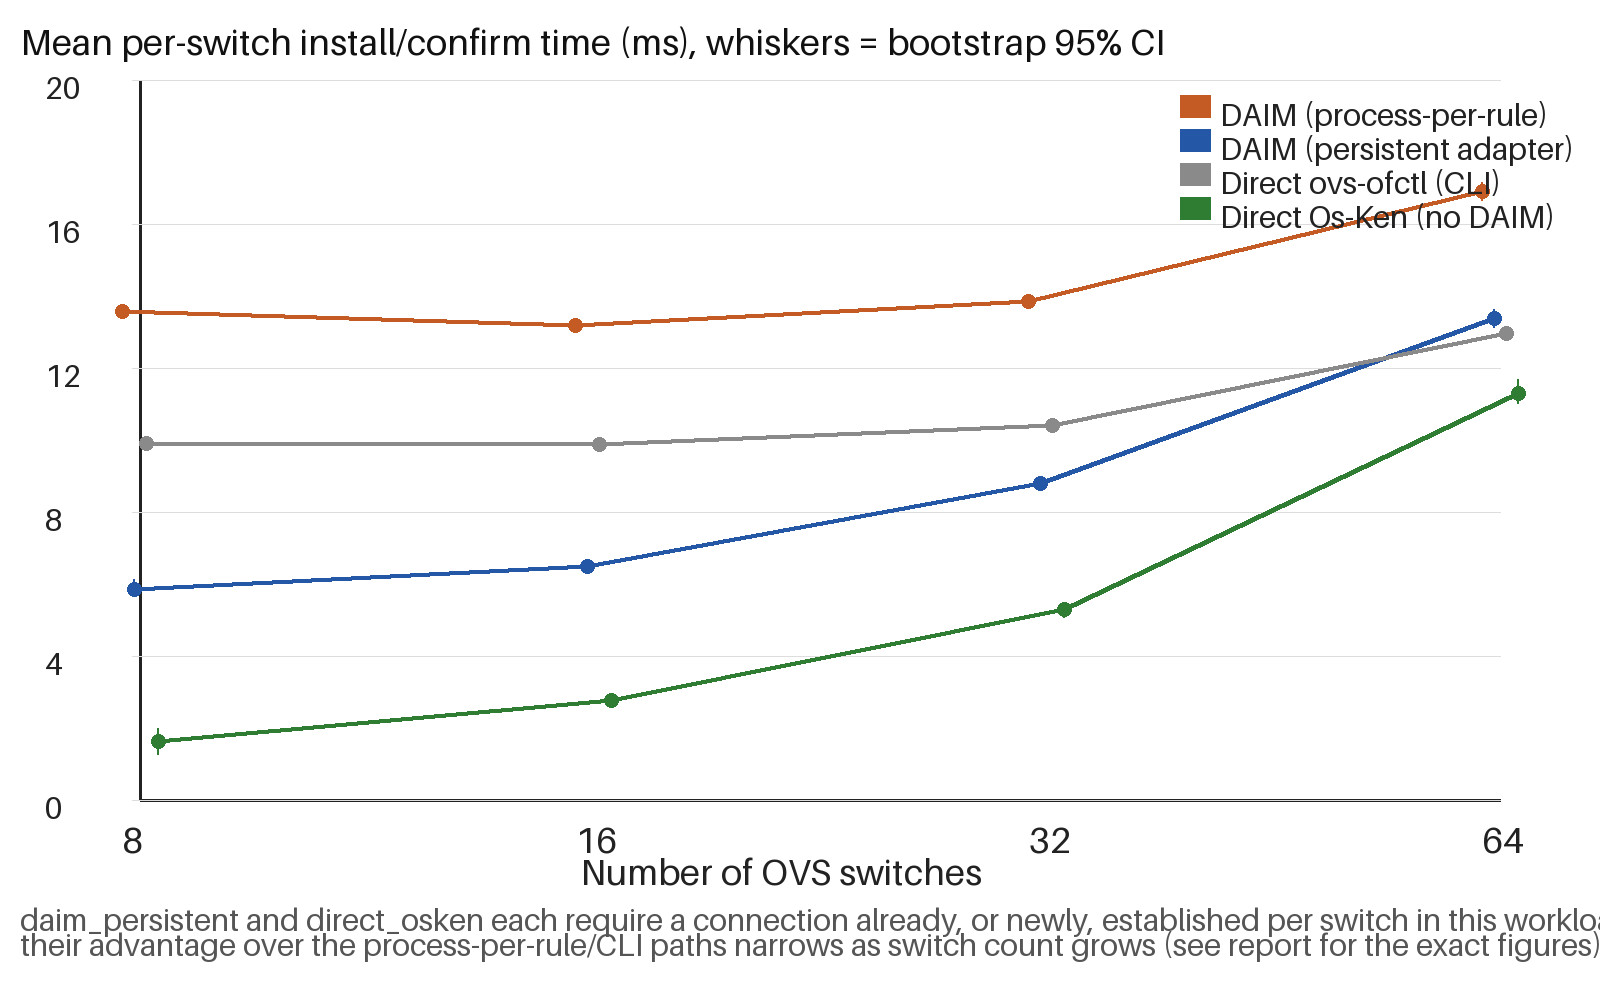
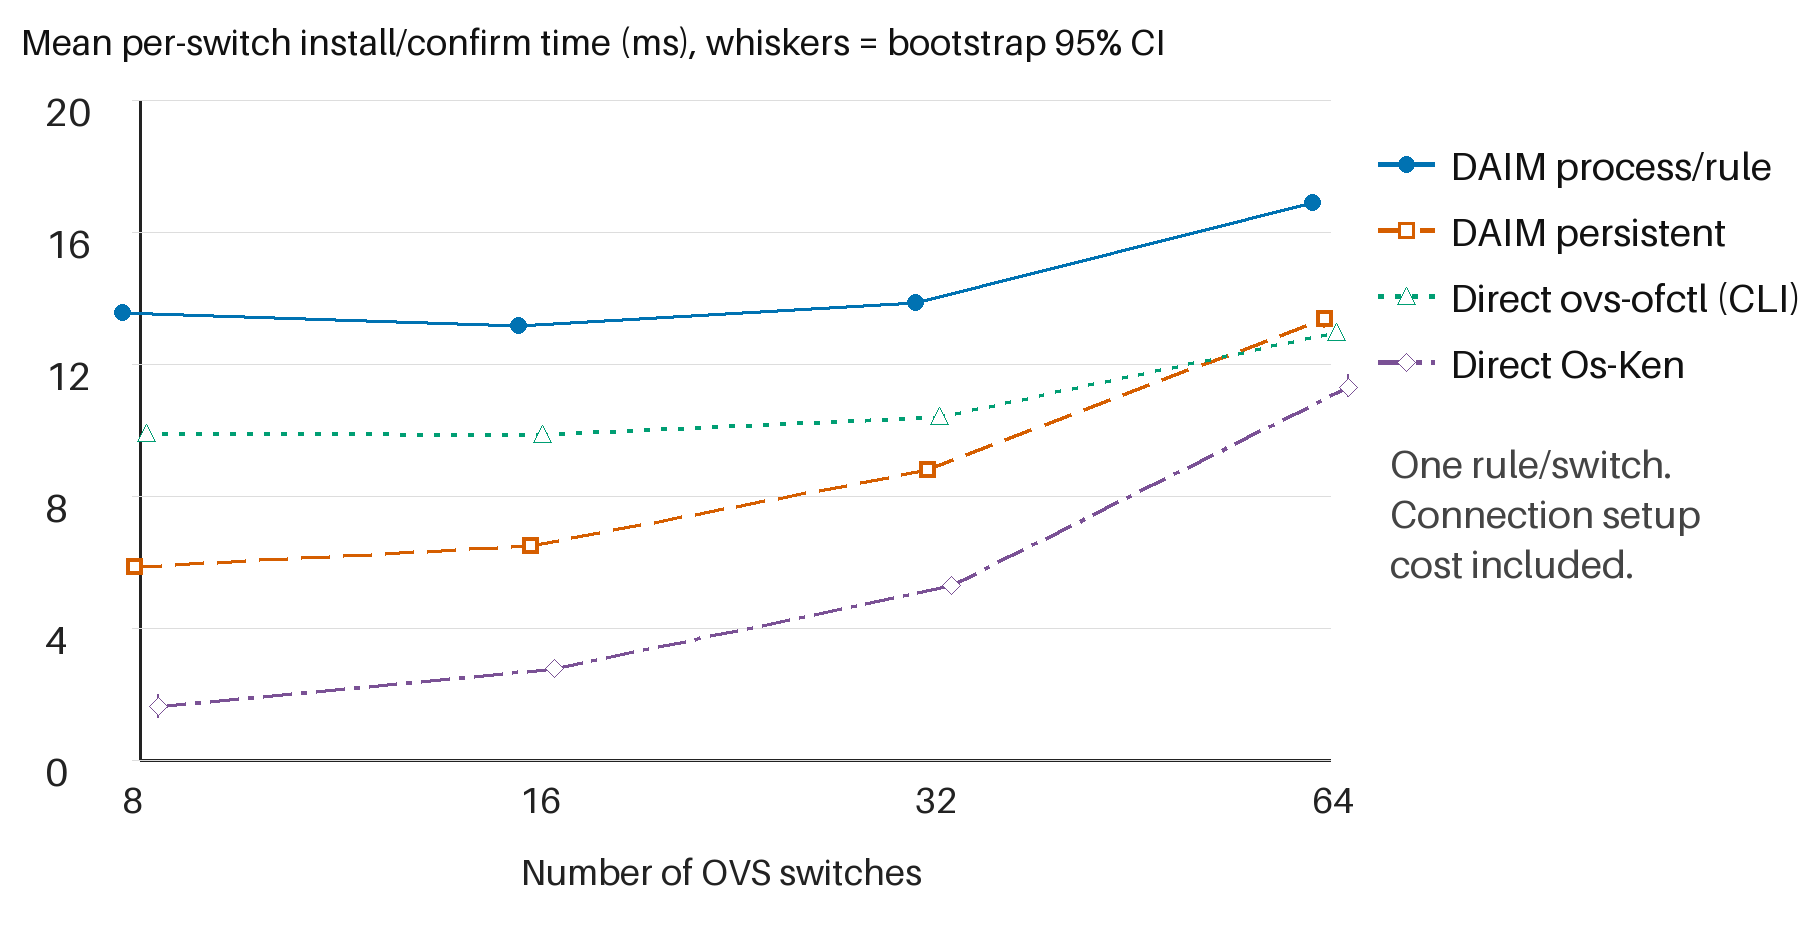
Visual-only fixes to Figures 6 and 8; refresh stage2 statistics prose; update manifest

diff --git a/analysis/stage2_full_compare_analysis.py b/analysis/stage2_full_compare_analysis.py
@@ -18,17 +18,29 @@ BOOTSTRAPS = 20000
 MODES = ["daim_process_per_rule", "daim_persistent", "direct_ovs_cli", "direct_osken"]
 SIZES = [8, 16, 32, 64]
 LABELS = {
-    "daim_process_per_rule": "DAIM (process-per-rule)",
-    "daim_persistent": "DAIM (persistent adapter)",
+    "daim_process_per_rule": "DAIM process/rule",
+    "daim_persistent": "DAIM persistent",
     "direct_ovs_cli": "Direct ovs-ofctl (CLI)",
-    "direct_osken": "Direct Os-Ken (no DAIM)",
+    "direct_osken": "Direct Os-Ken",
 }
-COLORS = {
-    "daim_process_per_rule": "#C45A24",
-    "daim_persistent": "#2457A6",
-    "direct_ovs_cli": "#8A8A8A",
-    "direct_osken": "#2E7D32",
-}
+MARKERS = {"daim_process_per_rule":"circle","daim_persistent":"square","direct_ovs_cli":"triangle","direct_osken":"diamond"}
+LINE_STYLES = {"daim_process_per_rule":"solid","daim_persistent":"dashed","direct_ovs_cli":"dotted","direct_osken":"dashdot"}
+COLORS = {"daim_process_per_rule":"#0072B2","daim_persistent":"#D55E00","direct_ovs_cli":"#009E73","direct_osken":"#7A5195"}
+
+
+def styled_segment(draw, a, b, style, width=4, color="#111111"):
+    x0, y0 = a; x1, y1 = b
+    length = max(1.0, ((x1-x0)**2 + (y1-y0)**2)**0.5)
+    patterns = {"solid": [length], "dashed": [28, 14], "dotted": [5, 12], "dashdot": [28, 10, 5, 10]}
+    pattern = patterns[style]
+    pos = 0.0; pi = 0; draw_on = True
+    while pos < length:
+        end = min(length, pos + pattern[pi % len(pattern)])
+        if draw_on:
+            xa=x0+(x1-x0)*pos/length; ya=y0+(y1-y0)*pos/length
+            xb=x0+(x1-x0)*end/length; yb=y0+(y1-y0)*end/length
+            draw.line((xa,ya,xb,yb), fill=color, width=width)
+        pos=end; pi+=1; draw_on=not draw_on
 
 
 def bootstrap_ci(values, rng):
@@ -39,12 +51,12 @@ def bootstrap_ci(values, rng):
 
 
 def draw_chart(summary, path):
-    width, height = 1600, 1000
+    width, height = 1800, 940
     image = Image.new("RGB", (width, height), "white")
     draw = ImageDraw.Draw(image)
     font = ImageFont.load_default(size=36)
-    small = ImageFont.load_default(size=31)
-    left, top, right, bottom = 140, 80, 1500, 800
+    small = ImageFont.load_default(size=39)
+    left, top, right, bottom = 140, 100, 1330, 760
     draw.line((left, top, left, bottom), fill="#222222", width=3)
     draw.line((left, bottom, right, bottom), fill="#222222", width=3)
     ymax = 20.0
@@ -66,24 +78,36 @@ def draw_chart(summary, path):
             points.append((x, y))
             lo, hi = row["bootstrap_95_ci_ms"]
             draw.line((x, y_of(lo), x, y_of(hi)), fill=COLORS[mode], width=2)
-        draw.line(points, fill=COLORS[mode], width=5)
+        for a, b in zip(points, points[1:]):
+            styled_segment(draw, a, b, LINE_STYLES[mode], color=COLORS[mode])
         for x, y in points:
-            draw.ellipse((x - 7, y - 7, x + 7, y + 7), fill=COLORS[mode])
+            shape=MARKERS[mode]
+            if shape=="circle": draw.ellipse((x-8,y-8,x+8,y+8),fill=COLORS[mode])
+            elif shape=="square": draw.rectangle((x-8,y-8,x+8,y+8),outline=COLORS[mode],width=4,fill="white")
+            elif shape=="triangle": draw.polygon([(x,y-9),(x-9,y+8),(x+9,y+8)],outline=COLORS[mode],fill="white")
+            else: draw.polygon([(x,y-9),(x+9,y),(x,y+9),(x-9,y)],outline=COLORS[mode],fill="white")
 
     for idx, size in enumerate(SIZES):
         x = left + idx * (right - left) / (len(SIZES) - 1)
         draw.text((x - 18, bottom + 18), str(size), fill="#222222", font=font)
-    draw.text((580, 850), "Number of OVS switches", fill="#222222", font=font)
+    draw.text((520, 850), "Number of OVS switches", fill="#222222", font=font)
     draw.text((20, 20), "Mean per-switch install/confirm time (ms), whiskers = bootstrap 95% CI", fill="#111111", font=font)
 
-    ly = 95
+    ly = 150
     for mode in MODES:
-        draw.rectangle((1180, ly, 1210, ly + 22), fill=COLORS[mode])
-        draw.text((1220, ly), LABELS[mode], fill="#222222", font=small)
-        ly += 34
+        x, y = 1406, ly + 14
+        styled_segment(draw, (1378,y), (1434,y), LINE_STYLES[mode], 5, COLORS[mode])
+        shape = MARKERS[mode]
+        if shape == "circle": draw.ellipse((x-8,y-8,x+8,y+8),fill=COLORS[mode])
+        elif shape == "square": draw.rectangle((x-8,y-8,x+8,y+8),outline=COLORS[mode],width=3,fill="white")
+        elif shape == "triangle": draw.polygon([(x,y-9),(x-9,y+8),(x+9,y+8)],outline=COLORS[mode],fill="white")
+        else: draw.polygon([(x,y-9),(x+9,y),(x,y+9),(x-9,y)],outline=COLORS[mode],fill="white")
+        draw.text((1450, ly - 8), LABELS[mode], fill="#111111", font=small)
+        ly += 66
 
-    draw.text((20, 900), "daim_persistent and direct_osken each require a connection already, or newly, established per switch in this workload;", fill="#555555", font=small)
-    draw.text((20, 925), "their advantage over the process-per-rule/CLI paths narrows as switch count grows (see report for the exact figures).", fill="#555555", font=small)
+    draw.text((1390, 440), "One rule/switch.", fill="#444444", font=small)
+    draw.text((1390, 490), "Connection setup", fill="#444444", font=small)
+    draw.text((1390, 540), "cost included.", fill="#444444", font=small)
     image.save(path)
 
 
@@ -110,6 +134,9 @@ def main():
                 "mean_ms": float(np.mean(values)),
                 "sd_ms": float(np.std(values, ddof=1)),
                 "median_ms": float(np.median(values)),
+                "p95_ms": float(np.percentile(values, 95)),
+                "p99_ms": float(np.percentile(values, 99)),
+                "max_ms": float(np.max(values)),
                 "bootstrap_95_ci_ms": bootstrap_ci(values, rng),
                 "connectivity_passes": sum(
                     int(row["ping_success"]) for row in raw
@@ -133,7 +160,7 @@ def main():
         "summary": summary,
         "comparisons": comparisons,
         "interpretation": (
-            "Four-way isolation of process-spawn cost, DAIM Core/ctypes cost, "
+            "Four-way comparison of process-spawn cost, DAIM CLI-adapter wrapper cost (no DAIM Core or ctypes in any path), "
             "and native-controller OpenFlow cost, extending the original "
             "DAIM-vs-direct-ovs-ofctl microbenchmark per external review "
             "feedback. Not a flow-setup-latency or new-flow-arrival benchmark."

diff --git a/analysis/control_plane_load_profile_analysis.py b/analysis/control_plane_load_profile_analysis.py
@@ -19,11 +19,18 @@ SEED = 20260719
 BOOTSTRAPS = 20000
 MODES = ["process_per_rule", "persistent"]
 LABELS = {"process_per_rule": "DAIM (process-per-rule)", "persistent": "DAIM (persistent adapter)"}
-COLORS = {"process_per_rule": "#C45A24", "persistent": "#2457A6"}
+COLORS = {"process_per_rule": "#0072B2", "persistent": "#F4A261"}
+
+def patterned_bar(draw, box, mode):
+    x0, y0, x1, y1 = box
+    draw.rectangle(box, fill=COLORS[mode], outline="#111111", width=2)
+    if mode == "persistent":
+        for y in range(int(y0) + 8, int(y1), 14):
+            draw.line((x0 + 2, y, x1 - 2, y), fill="#777777", width=2)
 METRICS = [
     ("throughput_installs_per_s", "Throughput (installs/s)", 1.0),
     ("cpu_s", "Controller CPU time (ms)", 1000.0),
-    ("control_bytes_total", "Control bytes sent", 1.0),
+        ("control_bytes_total", "Encoded Flow-Mod bytes", 1.0),
 ]
 
 
@@ -42,17 +49,20 @@ def bootstrap_median_ci(values, rng):
 
 
 def draw_chart(summary, path):
-    width, height = 1400, 480
+    width, height = 1600, 620
     image = Image.new("RGB", (width, height), "white")
     draw = ImageDraw.Draw(image)
-    font = ImageFont.load_default(size=34)
-    small = ImageFont.load_default(size=30)
+    font = ImageFont.load_default(size=38)
+    # The figure is reduced to journal-column width in Word.  A 38 px
+    # legend font renders at roughly 11 pt there, instead of the former
+    # hard-to-read ~8.5 pt.
+    small = ImageFont.load_default(size=38)
 
     panel_w = width // len(METRICS)
     for pi, (key, label, scale) in enumerate(METRICS):
-        px0 = pi * panel_w + 60
-        px1 = (pi + 1) * panel_w - 40
-        top, bottom = 40, 340
+        px0 = pi * panel_w + 80
+        px1 = (pi + 1) * panel_w - 55
+        top, bottom = 100, 430
         draw.line((px0, top, px0, bottom), fill="#222222", width=2)
         draw.line((px0, bottom, px1, bottom), fill="#222222", width=2)
 
@@ -68,19 +78,22 @@ def draw_chart(summary, path):
             x0 = px0 + (i + 0.4) * bar_w
             x1 = x0 + bar_w * 0.6
             y = y_of(vals[i])
-            draw.rectangle((x0, y, x1, bottom), fill=COLORS[mode])
+            patterned_bar(draw, (x0, y, x1, bottom), mode)
             ylo, yhi = y_of(cis[i][0]), y_of(cis[i][1])
             xc = (x0 + x1) / 2
             draw.line((xc, ylo, xc, yhi), fill="#000000", width=2)
-            draw.text((x0 - 5, y - 24), f"{vals[i]:.1f}", fill="#111111", font=small)
+            value_text = f"{vals[i]:.0f}" if key == "control_bytes_total" else f"{vals[i]:.1f}"
+            tw = draw.textbbox((0, 0), value_text, font=small)[2]
+            draw.text((xc - tw / 2, max(40, yhi - 42)), value_text, fill="#111111", font=small)
 
-        draw.text((px0, bottom + 10), label, fill="#222222", font=font)
+        tw = draw.textbbox((0, 0), label, font=font)[2]
+        draw.text(((px0 + px1 - tw) / 2, bottom + 14), label, fill="#222222", font=font)
 
-    ly = height - 50
+    ly = 25
     for i, mode in enumerate(MODES):
-        cx = 60 + i * 420
-        draw.rectangle((cx, ly, cx + 20, ly + 16), fill=COLORS[mode])
-        draw.text((cx + 28, ly - 2), LABELS[mode], fill="#222222", font=small)
+        cx = 350 + i * 520
+        patterned_bar(draw, (cx, ly, cx + 34, ly + 26), mode)
+        draw.text((cx + 44, ly - 7), LABELS[mode], fill="#111111", font=small)
     image.save(path)
 
 

diff --git a/docs/FIGURE_REVISION_20261002.md b/docs/FIGURE_REVISION_20261002.md
@@ -20,6 +20,22 @@ is unchanged and keeps its own versions):
 | paper1_installation_time.png | 6ce8a80bb3c9dc9fb2d693d352246a3e74071e961ecacd1c9aa04f536d00dda7 |
 | stage2_full_compare_paired.png | 3c67ceb502f17e6016fbce5a1a70a1fc4496988ee68b2a74603b81edf2832374 |
 
+Two further figures were adjusted later the same day (no values changed):
+
+| Figure | File | Change | Previous SHA-256 |
+| --- | --- | --- | --- |
+| 6 | `results/paper1/control_plane_load_profile.png` | Value labels moved above the whiskers so they no longer overprint bars and error bars | ab84be9047e3e19bfaf63a5fa158857ba681d59c08e36bfcbe3f7615ad82e2d0 |
+| 8 | `results/paper1/stage2_full_compare.png` | Axis label moved below the tick labels | a569bc3adc079275fc6fdcda687e012f5373466ab08f657298d5a92038f86423 |
+
+`results/paper1/stage2_full_compare_statistics.json` was refreshed from the
+current analysis script: all previously present values are unchanged; p95/p99/max
+fields were added, and the free-text `interpretation` string no longer says the
+benchmark isolates "DAIM Core/ctypes cost" (neither DAIM path in that benchmark
+calls Core or ctypes). The analysis scripts for Figures 6 and 8 in the package
+were replaced by the working-tree versions used to produce the manuscript
+figures. `network/stage2_full_compare.py` still carries the old wording in its
+header comment; the collector source is left byte-identical.
+
 The packaged `analysis/stage2_full_compare_paired_analysis.py` previously drew a
 different colour scheme from the manuscript's Figure 9; the package now uses the
 same script as the manuscript. The earlier manifest is retained as
